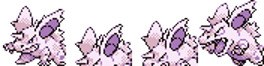
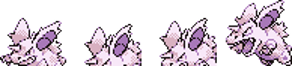
feat: add animations of nido

diff --git a/client/index.html b/client/index.html
@@ -9,11 +9,16 @@
       <div class="wide-screen-mode">
         <div class="wide-block">
         </div>
-        <div class="gengar">
-        </div>
-        <div class="nido-attack">
-        </div>
-        <div class="nido-evasion">
+        <div class="game-container">
+          <!-- <div class="nido-attack">
+          </div> -->
+          <div id="nido" class="nido-evasion nido-translating">
+          </div>
+          <!-- <div class="parent"> -->
+            <div class="gengar gengar-translating">
+            <!-- </div> -->
+
+          </div>
         </div>
         <div class="wide-block">
         </div>

diff --git a/client/entry.js b/client/entry.js
@@ -1,3 +1,5 @@
+import './animation-handler.js';
+
 import './styles/reset.styl'
 import './styles/game.styl';
 
